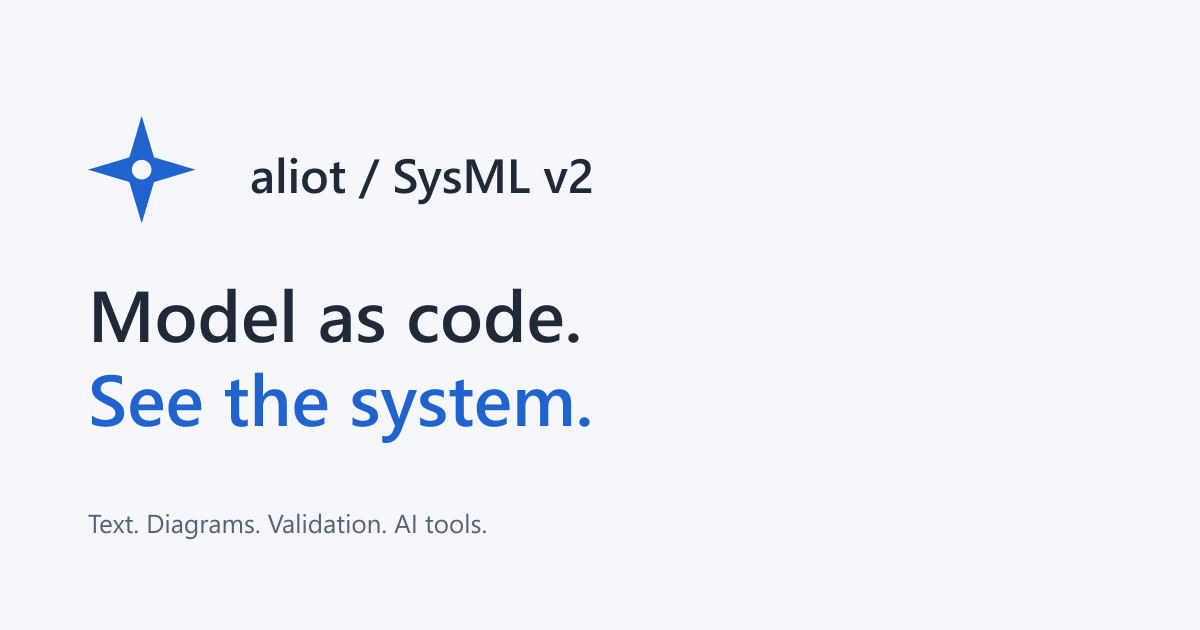
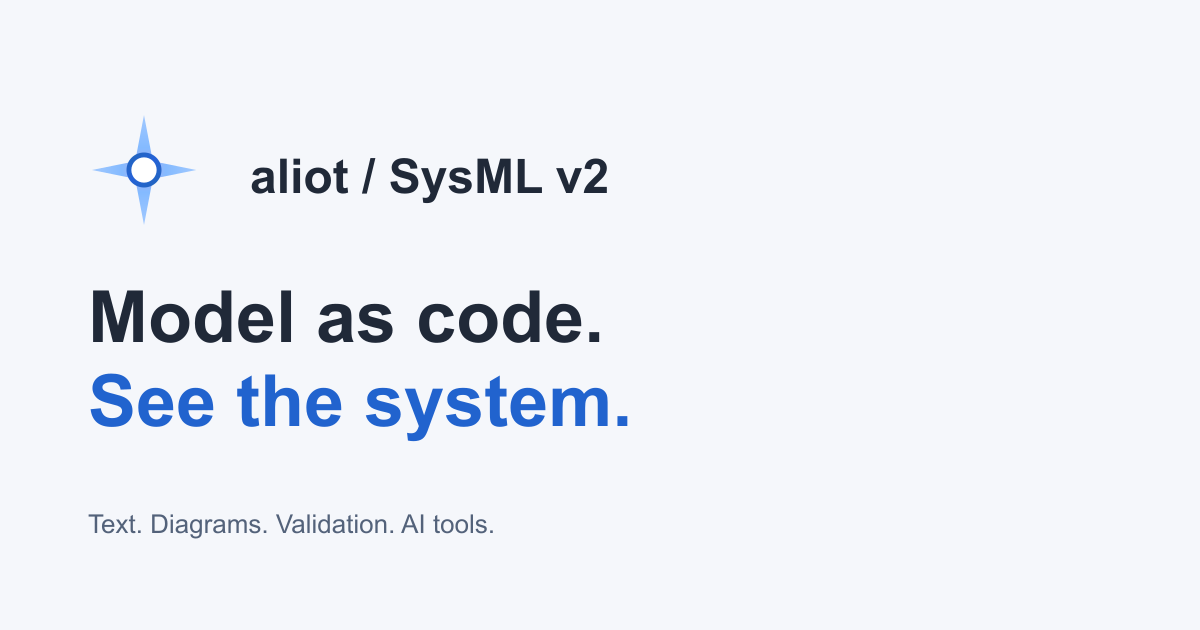
Refresh Aliot branding and README assets
This change updates the project branding to the new four-ray Aliot star and introduces theme-aware light/dark asset variants for the landing page, favicon, and README. It also updates the marketplace/system icon to the approved transparent grid-based design, moves the historical framed artwork into assets/brand/old, and adds the new hero mark and media guidance documentation.

diff --git a/index.html b/index.html
@@ -216,6 +216,10 @@
       <section class="hero" id="top" aria-labelledby="hero-title">
         <div class="wrap">
           <div class="hero-copy">
+            <img class="hero-brand-mark" src="assets/brand/aliot-star-light.svg"
+              data-light="assets/brand/aliot-star-light.svg" data-dark="assets/brand/aliot-star-dark.svg"
+              width="132" height="132" alt="Aliot star with a blue ring and white centre" />
+
             <div class="eyebrow center">
               <span class="small-dot"></span>SYSML v2 + KerML. INSIDE VS CODE.
             </div>

diff --git a/styles.css b/styles.css
@@ -3304,3 +3304,11 @@ dialog::backdrop {
     font-size: 9px;
   }
 }
+
+/* The landing page uses the plain star. System nodes belong to the store icon. */
+.hero-brand-mark {
+  display: block;
+  width: 132px;
+  height: 132px;
+  margin: 0 auto 24px;
+}

diff --git a/MEDIA-GUIDE.md b/MEDIA-GUIDE.md
@@ -44,8 +44,10 @@ GitHub README and Marketplace pages can display linked PNGs and GIFs. They do no
 
 Keep animations small enough to load quickly. Update alt text and captions whenever the demonstrated behavior changes.
 
-## Brand icons
+## Brand assets
 
-The refined icon pack lives under `assets/brand/`. Use `aliot-star-light.svg` and `aliot-star-dark.svg` for the landing page header and footer and the HTML and Markdown user guides. These SVGs isolate the rays, ring and white centre from the supplied website artwork, with a tight viewBox and no background or frame. The header displays the star at 42 px (36 px on narrow screens), and the footer at 32 px. The original framed `aliot-web-star-*.svg` masters remain available. The landing page and HTML guide theme switches update images with `data-light` / `data-dark` paths and the matching `aliot-favicon-*.svg`. The favicon contains only the star, blue ring and white centre on a transparent background, with no tile or frame.
+Use `aliot-star-light.svg` and `aliot-star-dark.svg` for the landing page, guides and repository READMEs. These contain only the four rays, blue ring and solid white centre. The header, hero and footer share this mark. Favicons use the same star.
 
-The README uses the 512 px `aliot-marketplace-system-*.png` pair in a theme-aware `<picture>`. Matching SVG masters and PNG exports for both designs are included. Preserve the solid white centre, separate blue ring and transparent outer corners when replacing artwork.
+Use `aliot-marketplace-system-light.png` and `aliot-marketplace-system-dark.png` only for the extension and Marketplace content. This is the approved C design: 20 percent larger artwork, system grid and circular SysML v2 label, with no background box. Keep the SVG masters and PNG exports together. Do not use the framed historical artwork for new pages.
+
+Website theme controls switch both artwork and captures. README images use `<picture>` with a dark source and a light fallback. Renderers that strip `picture`, `media` or `srcset` show the fallback; the Marketplace README also links to both captures. The store manifest supports one PNG icon, so its transparent light version serves both backgrounds. Leave the optional fixed gallery banner unset so the host controls the page appearance.

diff --git a/README.md b/README.md
@@ -1,8 +1,8 @@
 <p align="center">
-  <picture>
-    <source media="(prefers-color-scheme: dark)" srcset="assets/brand/aliot-marketplace-system-dark.png">
-    <img src="assets/brand/aliot-marketplace-system-light.png" width="112" height="112" alt="Aliot SysML v2: four-ray star with a white centre, blue ring and four system nodes">
-  </picture>
+<picture>
+  <source media="(prefers-color-scheme: dark)" srcset="assets/brand/aliot-star-dark.png">
+  <img src="assets/brand/aliot-star-light.png" width="88" height="88" alt="Aliot star with a blue ring and white centre">
+</picture>
 </p>
 
 # Aliot SysML v2
